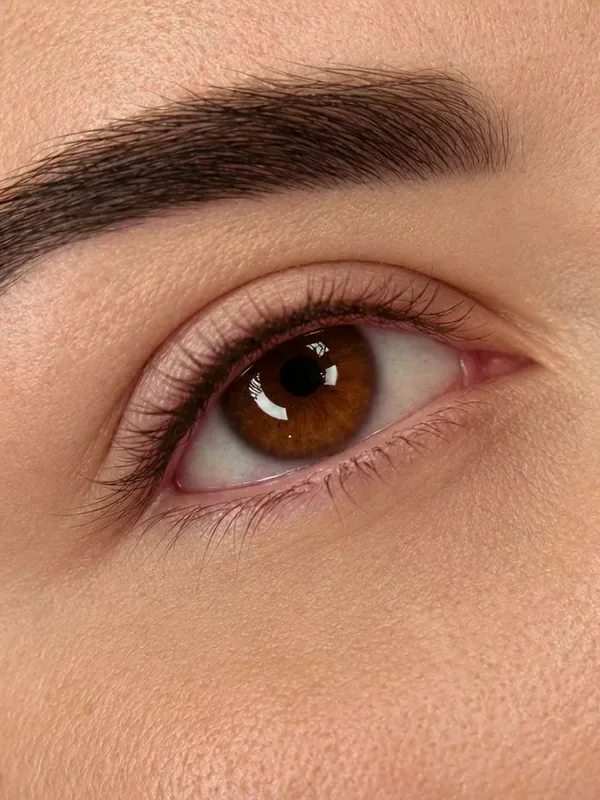
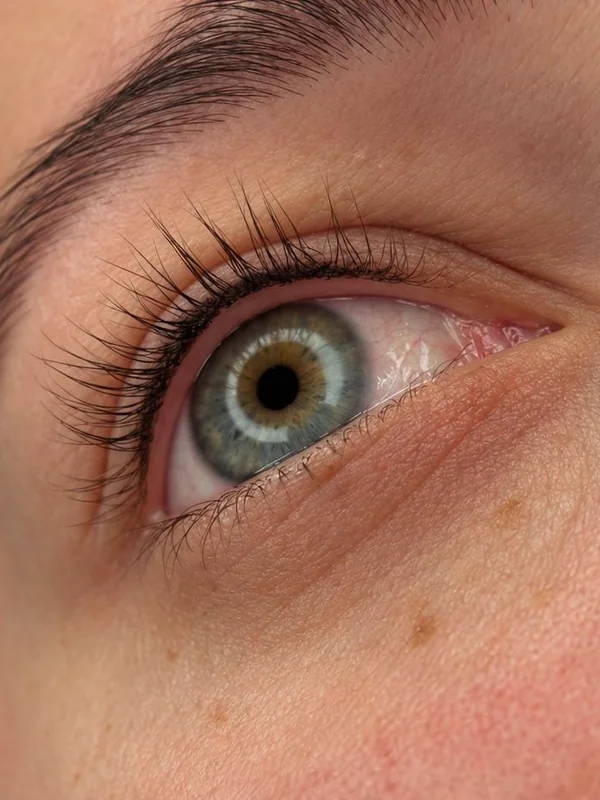
New real photos for brows and lash line cards

diff --git a/app.js b/app.js
@@ -272,7 +272,7 @@ function render(){
   $$("[data-i18n]").forEach(el=>{ el.textContent=el.dataset.i18n.split(".").reduce((o,k)=>o&&o[k],t)||""; });
   $("#facts").innerHTML=t.about.facts.map(f=>`<li><b>${esc(f[0])}</b>${esc(f[1])}</li>`).join("");
   const rows=r=>`<ul class="rows">${r.map(x=>`<li><span>${esc(x[0])}</span><b>${esc(x[1])}</b></li>`).join("")}</ul>`;
-  $("#cards").innerHTML=t.services.items.map((s,i)=>`<article class="card"><div class="ph photo"><img src="img/svc-${SVC[i]}.webp?v=20261117c" width="${SVC_D[i][0]}" height="${SVC_D[i][1]}" alt="${esc(t.alt.svc[i]||"")}" loading="lazy" decoding="async"></div><div><h3>${esc(s[0])}</h3><p>${esc(s[1])}</p>${rows(s[2])}</div></article>`).join("");
+  $("#cards").innerHTML=t.services.items.map((s,i)=>`<article class="card"><div class="ph photo"><img src="img/svc-${SVC[i]}.webp?v=20261117d" width="${SVC_D[i][0]}" height="${SVC_D[i][1]}" alt="${esc(t.alt.svc[i]||"")}" loading="lazy" decoding="async"></div><div><h3>${esc(s[0])}</h3><p>${esc(s[1])}</p>${rows(s[2])}</div></article>`).join("");
   $("#formats").innerHTML=t.training.items.map(s=>`<div class="format"><h3>${esc(s[0])}</h3><p>${esc(s[1])}</p>${rows(s[2])}</div>`).join("");
   $("#prog").innerHTML=t.training.prog.map(x=>`<div class="format"><h3>${esc(x[0])}</h3><p>${esc(x[1])}</p></div>`).join("");
   $("#incl").innerHTML=t.training.incl.map(s=>`<li>${esc(s)}</li>`).join("");
